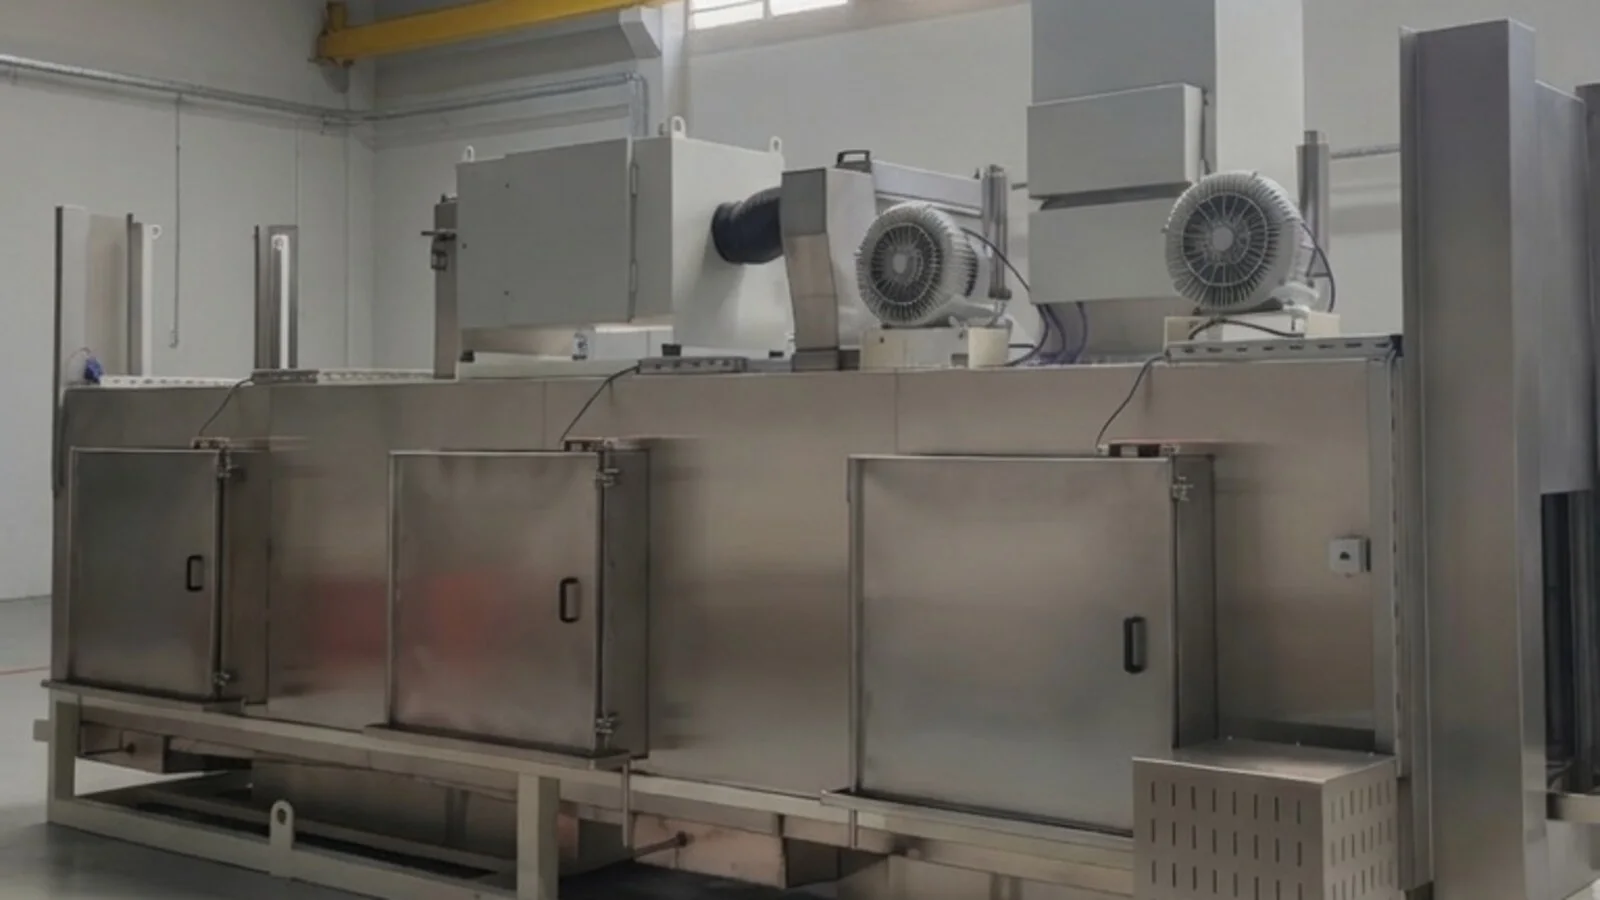
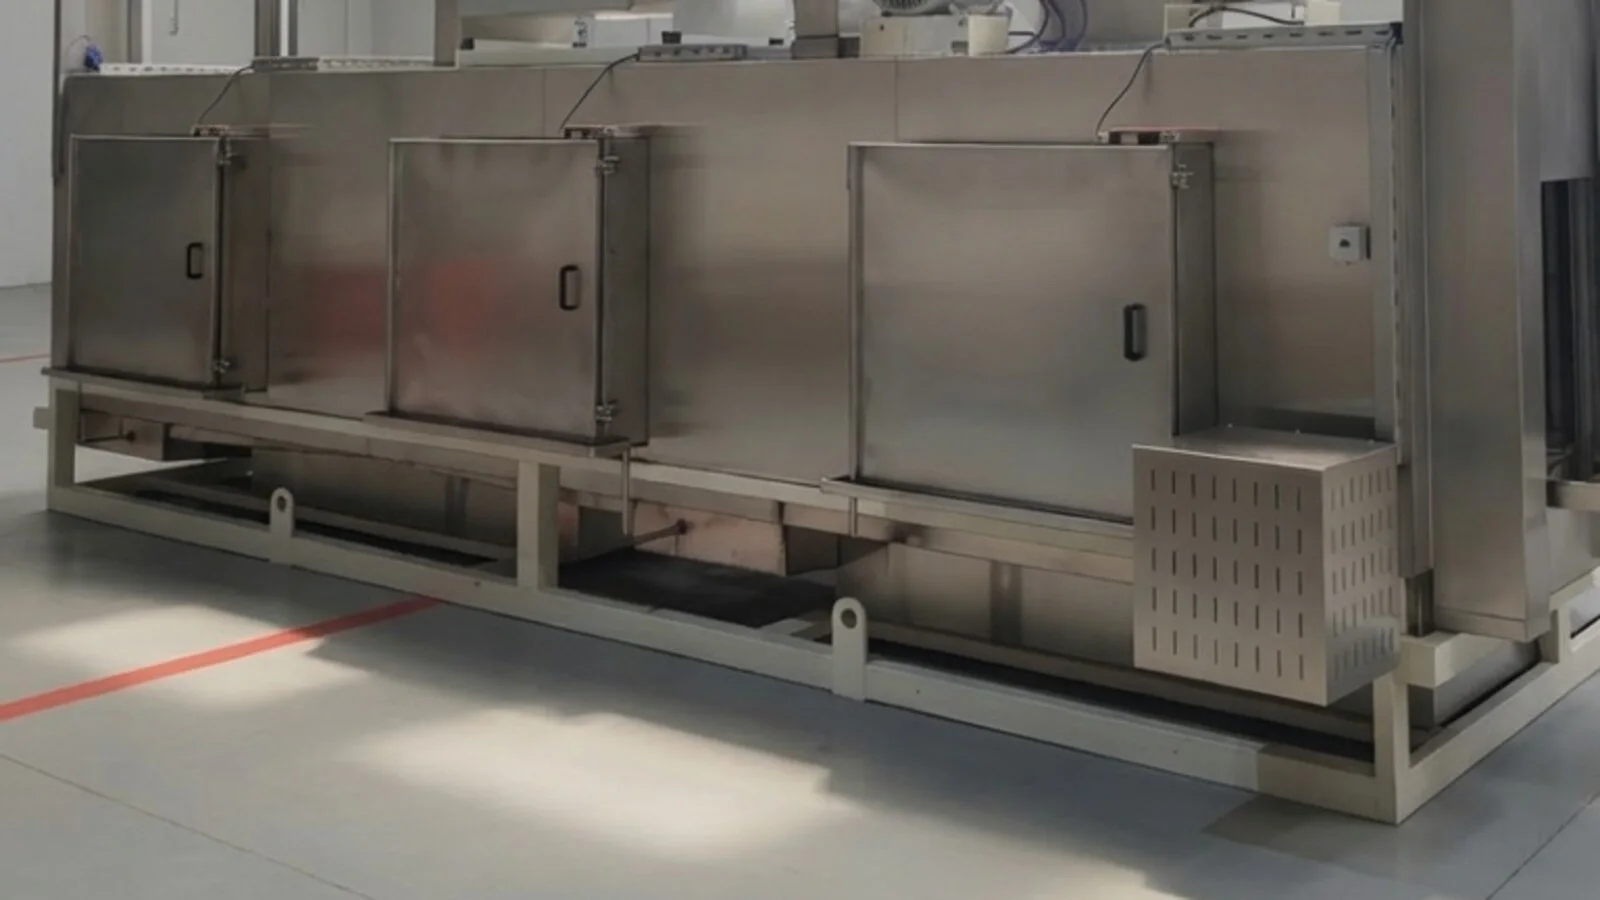
Fix C tile truncation + raise PLC photo crop to feature the doors
- C tile description: line-clamp 5 -> 7, font 14.5px -> 13.5 with the
  same 1.5 line-height. Producción en serie's full ~370-char caption
  (and the other long C bullets — Diseño a medida, Control PLC,
  Recuperación de aceite) now fit without the ellipsis at standard
  desktop widths.
- T02 'Control PLC' photo: re-cropped from y=500 to y=650 in the
  source portrait so the three cabinet doors fill the frame, dropping
  the blower + ceiling-beam band that was at the top.

diff --git a/src/styles/global.css b/src/styles/global.css
@@ -836,9 +836,13 @@ button { font-family: inherit; }
   overflow: hidden;
 }
 /* C is a wide 6×1 banner — it has room for the full caption rather
-   than a 2-line teaser. */
+   than a 2-line teaser. Slightly smaller font + 7-line clamp so the
+   longest desc (Producción en serie, ~370 chars) fits without an
+   ellipsis at the standard desktop viewports. */
 .tf-tech-tile[data-pos="c"] .tf-tech-tile-desc {
-  -webkit-line-clamp: 5;
+  font-size: 13.5px;
+  line-height: 1.5;
+  -webkit-line-clamp: 7;
   display: -webkit-box;
   -webkit-box-orient: vertical;
   overflow: hidden;
